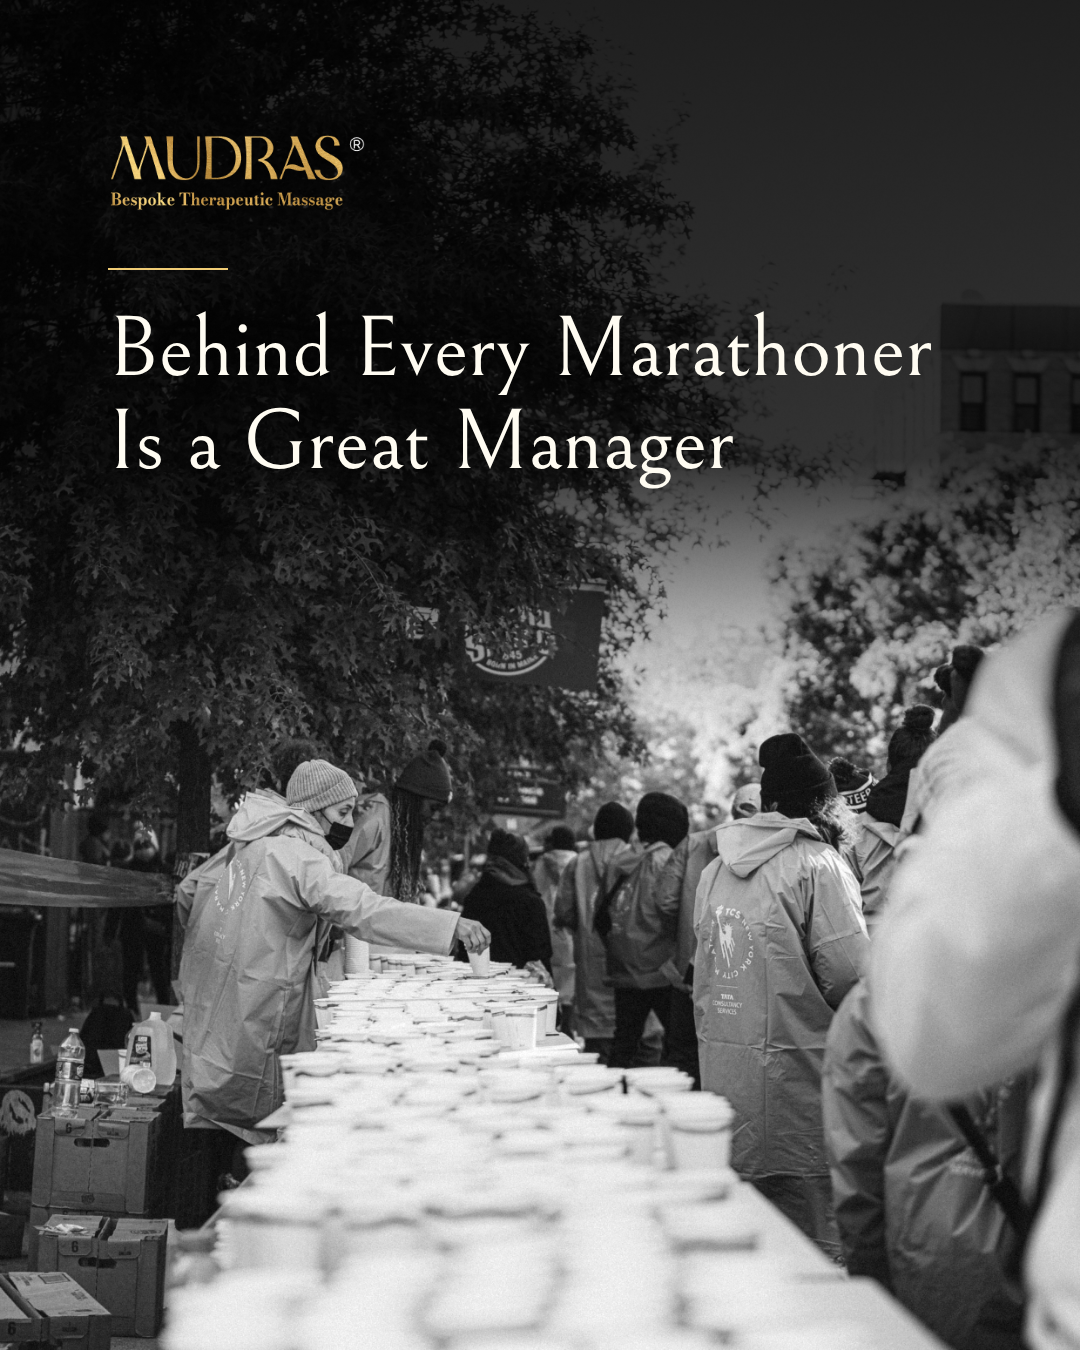
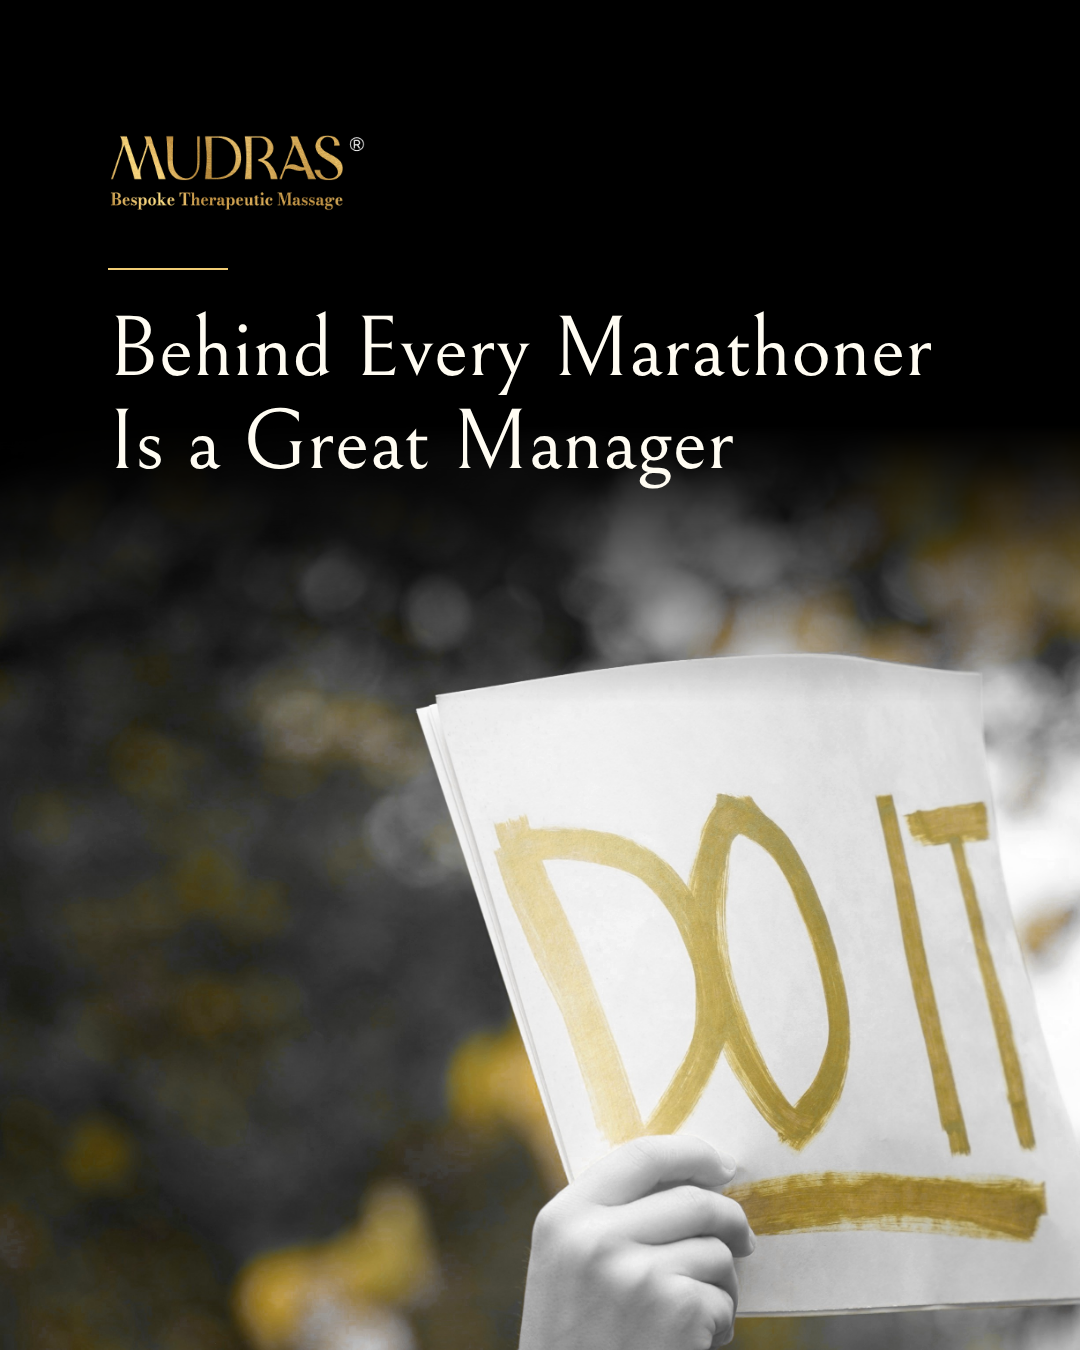
Mudras LinkedIn manager post: swap to 'DO IT' supporter sign photo
Claude-Session: https://claude.ai/code/session_01WnXcuRrGu4zGnnykNFmZUS

diff --git a/deliverables/mudras/source/design/li-great-manager.html b/deliverables/mudras/source/design/li-great-manager.html
@@ -4,7 +4,7 @@
 <style>
 /* Mudras brand tokens, taken from mudras.com theme CSS. Black/gold/white with a black-and-white photo.
    Layout follows the brand's "New York Film Festival" post: logo and headline top-left over a darkened sky,
-   the photo (an NYC Marathon water station, the support crew behind the runners) fully visible below. */
+   the photo (a supporter's hand-painted "DO IT" sign at the NYC Marathon, gold kept, the rest in black and white) fully visible below. */
 :root{
   --gold:#F0CC75;        /* accent  hsl(42.44 80.39% 70%) */
   --white:#FFFCF2;       /* white   hsl(46.15 100% 97.45%) */
@@ -24,8 +24,8 @@ body.notext .t{visibility:hidden}
 </style></head><body>
 
 <div class="ab p45" id="li_great_manager">
-  <div class="photo" style="background-image:url(../img/li_water_station_c.jpg);background-position:50% 100%"></div>
-  <div class="shade" style="background:linear-gradient(180deg,rgba(0,0,0,.88) 0%,rgba(0,0,0,.8) 34%,rgba(0,0,0,.25) 48%,rgba(0,0,0,0) 56%)"></div>
+  <div class="photo" style="top:auto;height:925px;background-image:url(../img/li_doit_sign_c.jpg);background-size:100% auto;background-position:50% 100%;filter:contrast(1.05);-webkit-mask-image:linear-gradient(180deg,transparent 0%,#000 30%);mask-image:linear-gradient(180deg,transparent 0%,#000 30%)"></div>
+  
   <div class="logo t" style="position:absolute;left:108px;top:135px;width:260px"><img src="../site/orig_Group_1487669750.png"></div>
   <div style="position:absolute;left:108px;right:108px;top:268px">
     <div class="rule" style="width:120px;margin-bottom:34px"></div>

diff --git a/deliverables/mudras/linkedin-behind-every-marathoner/caption-and-image-link.md b/deliverables/mudras/linkedin-behind-every-marathoner/caption-and-image-link.md
@@ -5,8 +5,8 @@ File: `linkedin/linkedin-single-image-1080x1350.png`
 Brand palette: black, gold and white, with a black-and-white photo. The layout follows the brand's "New York Film Festival" post:
 - gold logo top-left
 - short gold rule
-- white serif headline over the darkened sky
-- the photo fully visible below
+- white serif headline over black
+- the photo below fades in from black
 
 ## Image text
 Behind Every Marathoner Is a Great Manager
@@ -14,14 +14,15 @@ Behind Every Marathoner Is a Great Manager
 ## Image used
 | Image | Source | Link |
 |---|---|---|
-| An NYC Marathon water station: a long table of cups with the volunteer crew behind it (the support behind every runner) | Unsplash (free under the Unsplash License, commercial use allowed) | https://unsplash.com/photos/5rfKulWHCrQ |
+| A supporter's hand holding up a hand-painted "DO IT" sign for runners at the NYC Marathon (no faces) | Unsplash (free under the Unsplash License, commercial use allowed) | https://unsplash.com/photos/i6jUOmKETS0 |
 
-Direct download: https://images.unsplash.com/photo-1636736626599-6993a1989285
+Direct download: https://images.unsplash.com/photo-1667781758836-5a7e71e617d9
 
-Notes on the photo:
-- Volunteers are seen from behind or wearing masks, so no face is identifiable.
-- The crop leaves out a bottled-water brand's boxes.
-- The official NYC Marathon (TCS) volunteer jackets are still visible, small, on the crew.
+Edits to the photo:
+- cropped to the "DO IT" sign and hand, which leaves out a second sign and a spectator's head
+- turned black and white except for the gold tones, so the gold-painted "DO IT" and the autumn leaves echo the brand gold
+
+This photo replaces the earlier water-station image, which looked like catering.
 
 ## Caption
 Someone on your team is probably running the NYC Marathon next Sunday.
